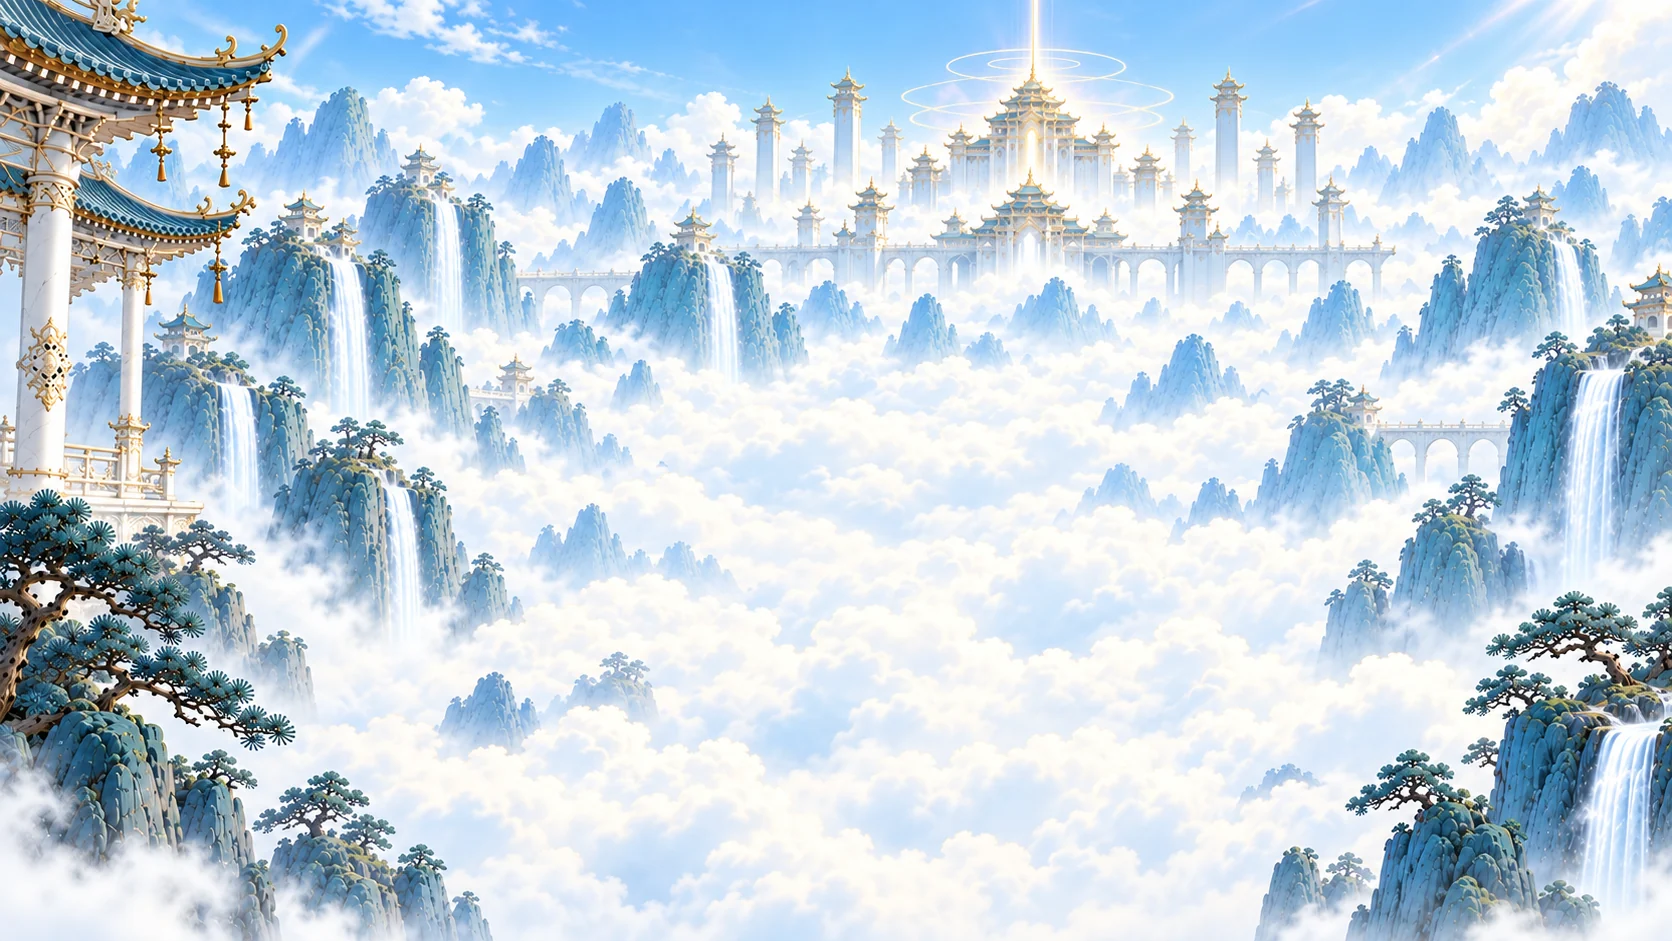
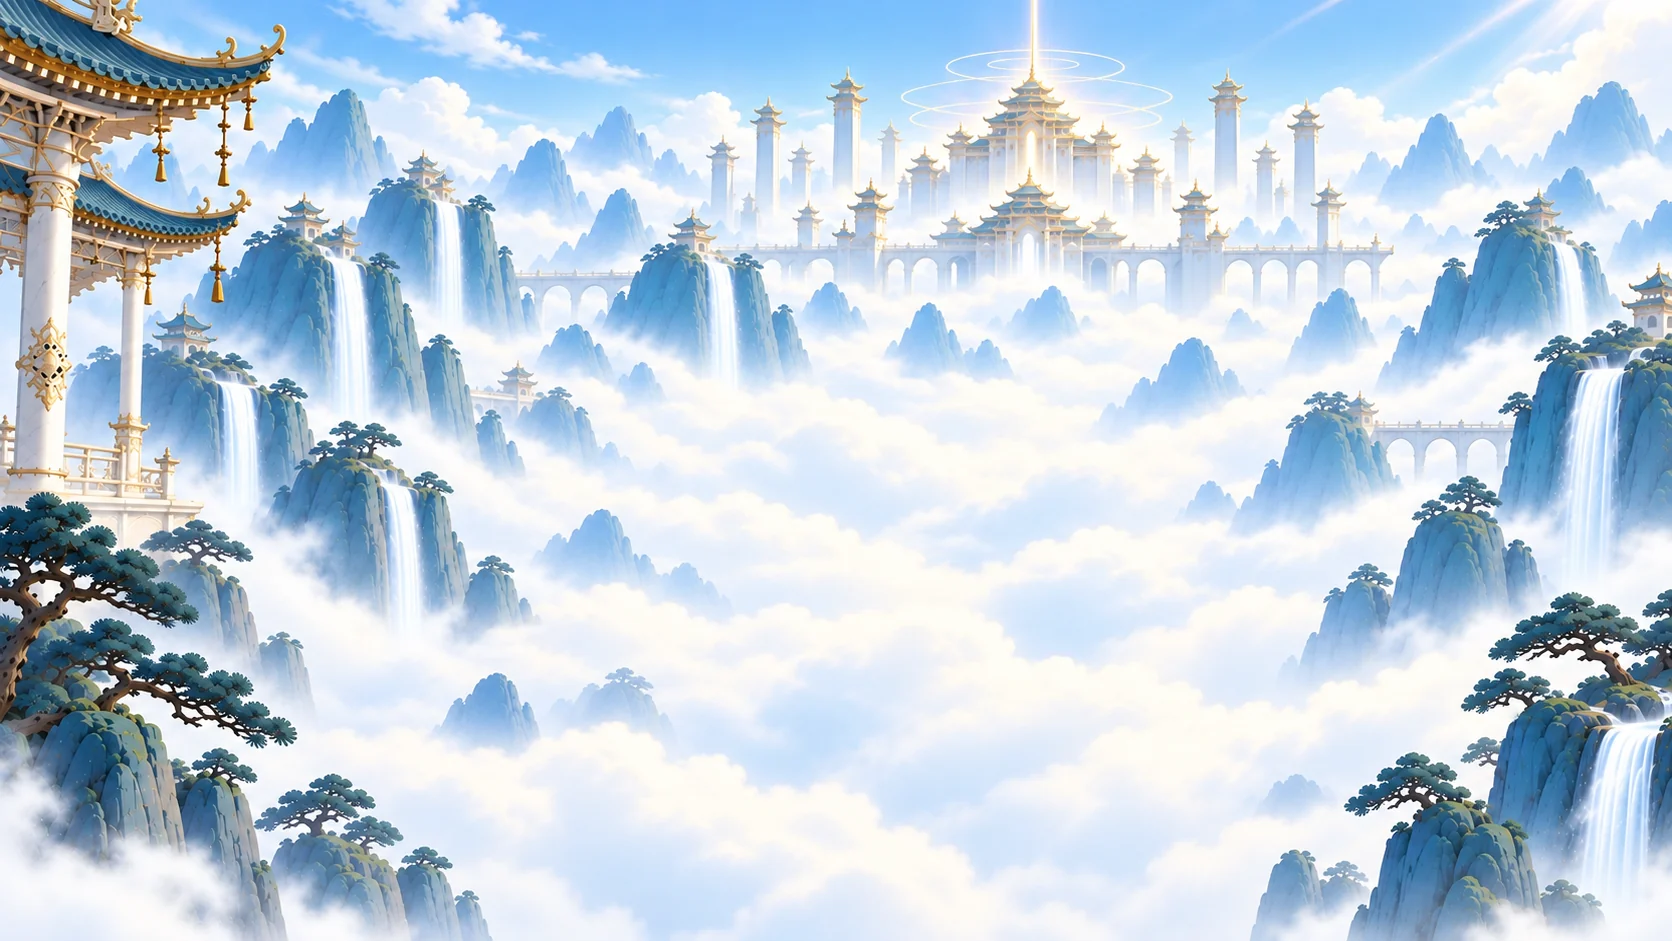
简化战斗背景纹理，减少云层与山石细节

diff --git a/src/art/backgrounds/README.md b/src/art/backgrounds/README.md
@@ -2,9 +2,10 @@
 
 根据用户提供的仙山天宫参考图，通过图像生成工具制作的无角色背景。
 横屏与竖屏分别构图，WebP quality 86；源图不包含敌人、弹道或界面文字。
+纹理采用大块柔和云层、简化岩面与松树轮廓，减少细碎细节，让角色与弹道更醒目。
 
 - `celestial-landscape.webp`：1672 × 941，横屏取景。
-- `celestial-portrait.webp`：940 × 1672，手机竖屏取景。
+- `celestial-portrait.webp`：941 × 1672，手机竖屏取景。
 
 `src/battle/background.ts` 按屏幕方向延迟加载、缓存取景，叠加轻微视差与柔边流云。
 加载中或资源失败时使用程序绘制的云海山峰；减少动态效果偏好关闭装饰性运动。
